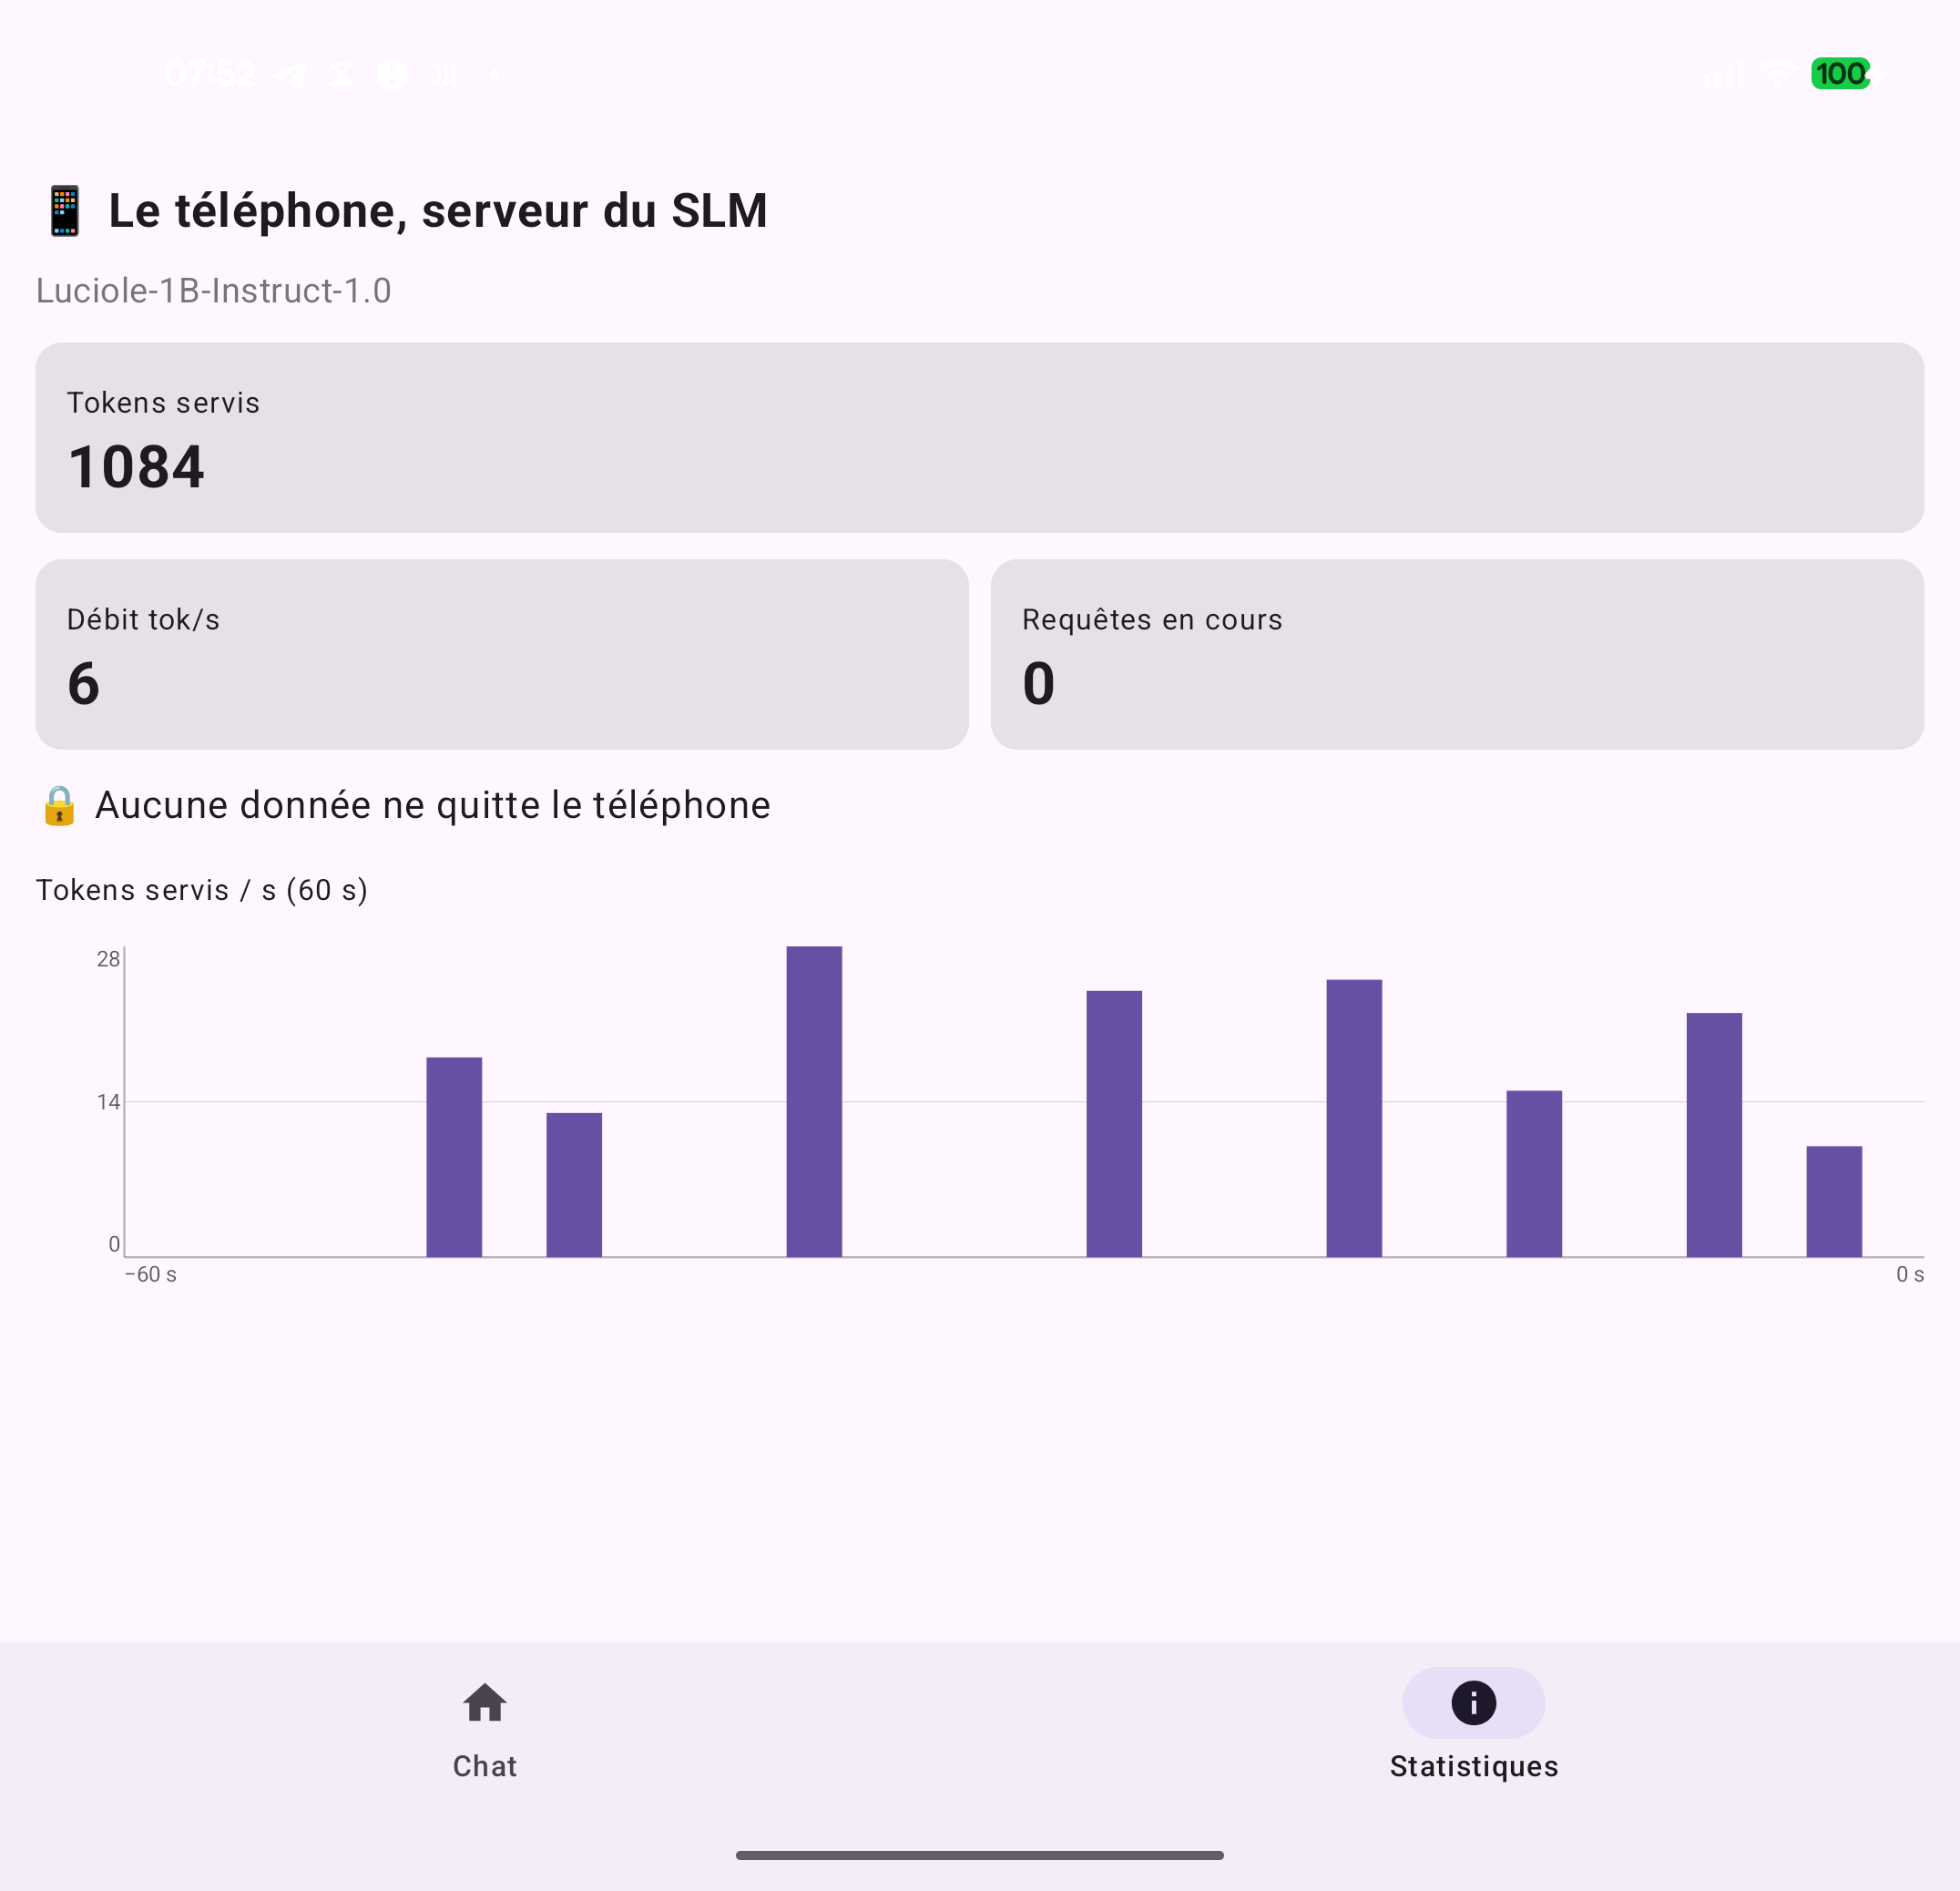
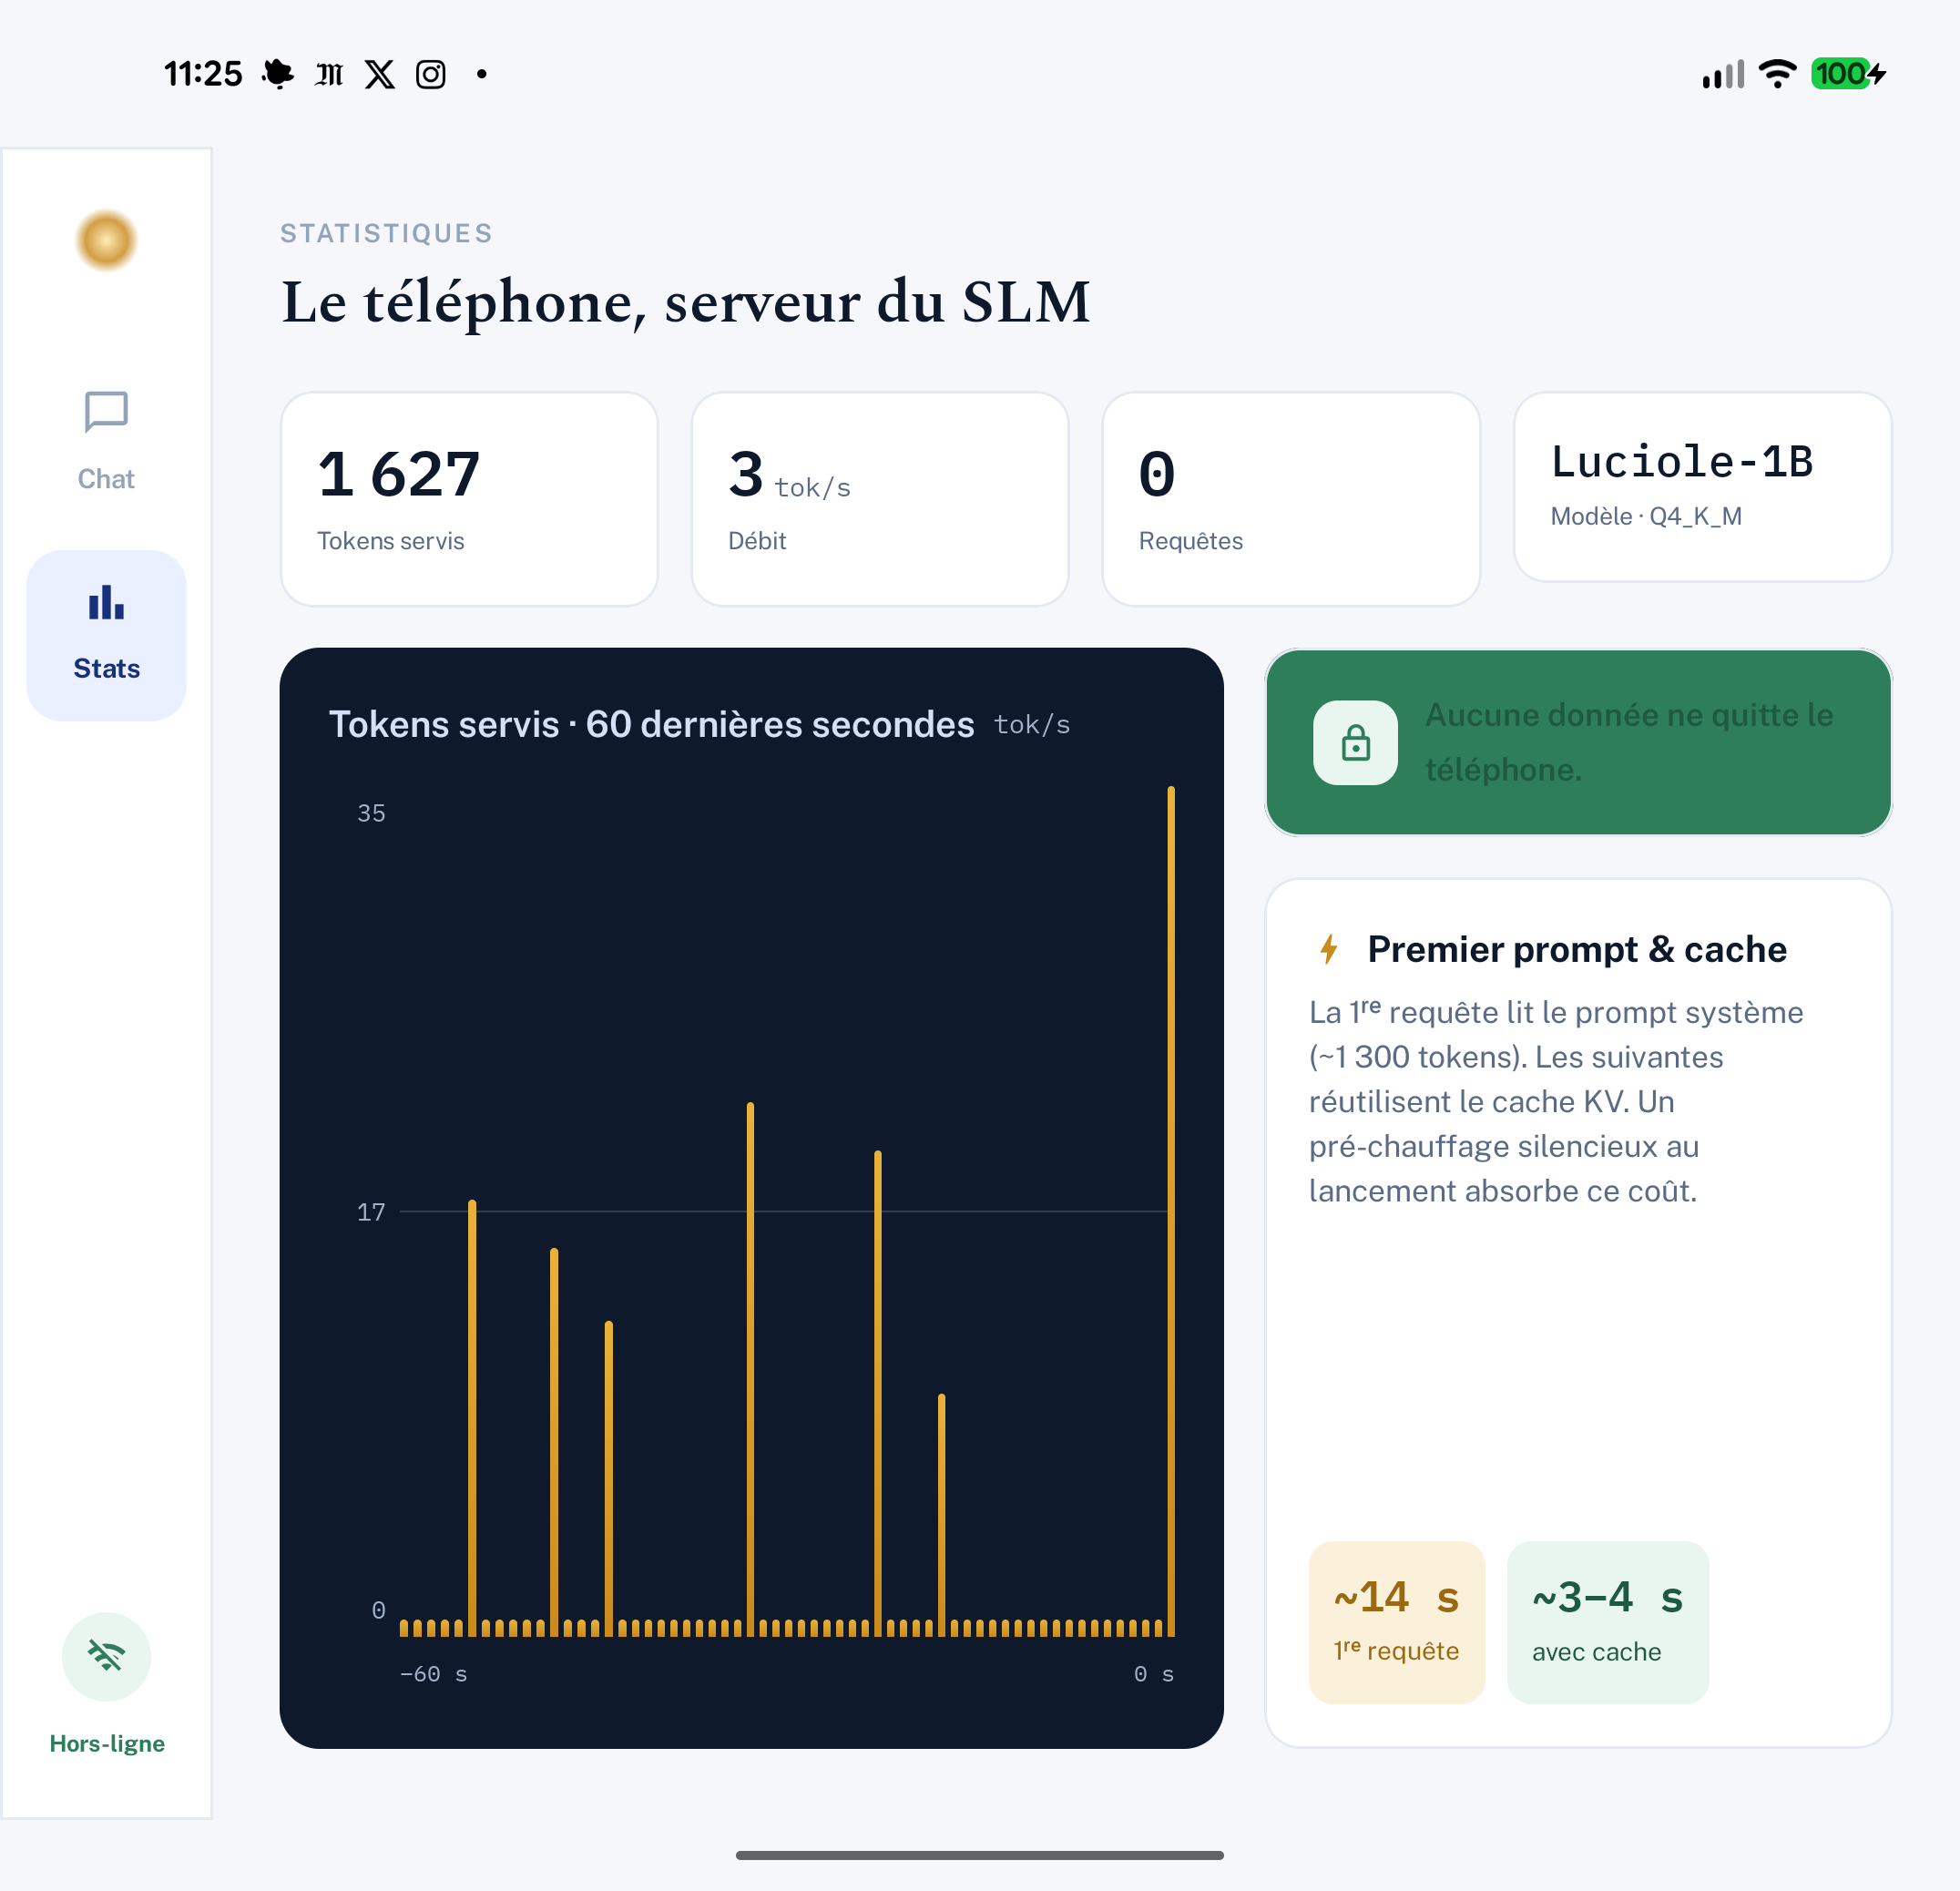
docs: README, captures de la nouvelle UI (onboarding Fold, Chat+Aide multi-volets, Aide telephone, tableau de bord avec axe Y) + note deux formats

diff --git a/README.md b/README.md
@@ -8,12 +8,18 @@
 ![100% on-device](https://img.shields.io/badge/100%25-on--device-success)
 [![Modèle](https://img.shields.io/badge/Mod%C3%A8le-Luciole--1B--Instruct%20(GGUF)-orange)](https://huggingface.co/mmaudet/Luciole-1B-Instruct-GGUF)
 
+> **Interface adaptative** : un format **téléphone** (barre d'onglets, une colonne) et un format **Pixel Fold déplié** (rail de navigation, volets côte à côte).
+
+<p align="center">
+  <img src="screenshots/onboarding.png" width="82%" alt="Écran d'accueil sur Pixel Fold déplié : la promesse à gauche, la preuve de souveraineté à droite"/>
+</p>
+
 ## ✨ L'idée en une phrase
 
 Vous dites **« mets un minuteur de 5 minutes »**, **« appelle Paul Maudet »** ou **« itinéraire vers la gare de Lyon »**. Un modèle de langage **d'un milliard de paramètres** tourne **sur le téléphone lui‑même** (aucun cloud, aucune donnée qui sort), transforme votre phrase en une **action structurée**, et l'application **déclenche l'intent Android natif** correspondant : composer un numéro, ouvrir Maps, créer une alarme.
 
 <p align="center">
-  <img src="screenshots/chat.png" width="66%" alt="Une phrase devient une action native, avec la durée de traitement affichée"/>
+  <img src="screenshots/chat.png" width="92%" alt="Pixel Fold déplié : rail de navigation, conversation et panneau de gabarits d'actions côte à côte"/>
 </p>
 
 ## ⚠️ Nature de la démonstration (à lire)
@@ -54,7 +60,7 @@ hf download mmaudet/Luciole-1B-Instruct-GGUF Luciole-1B-Instruct-Q4_K_M.gguf --l
 - **Bilingue** 🇫🇷 / 🇬🇧.
 
 <p align="center">
-  <img src="screenshots/aide.png" width="66%" alt="Panneau Aide : des gabarits d'actions avec l'entité déjà sélectionnée"/>
+  <img src="screenshots/aide.png" width="44%" alt="Format téléphone : la grille de gabarits d'actions et la carte d'aperçu (l'entité est pré-sélectionnée, on insère au bouton)"/>
 </p>
 
 ## 🧠 Comment ça marche : architecture « cerveau / mains »
@@ -85,7 +91,7 @@ hf download mmaudet/Luciole-1B-Instruct-GGUF Luciole-1B-Instruct-Q4_K_M.gguf --l
 L'onglet **Statistiques** (« le téléphone, serveur du SLM ») montre en temps réel que c'est bien **le téléphone qui calcule** : tokens servis, débit en tokens par seconde, requêtes en cours, et un **histogramme** des tokens servis sur les 60 dernières secondes. Le cadenas le rappelle : **aucune donnée ne quitte le téléphone**.
 
 <p align="center">
-  <img src="screenshots/statistiques.png" width="84%" alt="Statistiques : le téléphone sert les tokens, tout est calculé localement"/>
+  <img src="screenshots/statistiques.png" width="92%" alt="Tableau de bord (Fold déplié) : tokens servis, débit, histogramme avec axe des tokens/s, et l'impact du 1er prompt"/>
 </p>
 
 **L'impact du premier prompt sur la performance au démarrage.** À chaque requête, le modèle doit d'abord « lire » le **prompt système** : environ 1 300 tokens de règles et d'exemples qui cadrent les 11 actions. La **toute première** requête après le démarrage du serveur paie ce coût en entier et reste lente (de l'ordre de 14 s sur le téléphone). Les requêtes suivantes **réutilisent le cache** de ce préfixe (le *KV cache* de `llama.cpp`) et retombent autour de **3 à 4 s**. Pour que l'utilisateur ne subisse jamais ce premier coût, l'application envoie un **pré‑chauffage silencieux** au lancement : une requête « à blanc » qui réchauffe le cache, afin que la première vraie demande soit déjà rapide. C'est ce que montre l'histogramme : une montée en charge initiale, puis un débit qui se stabilise.